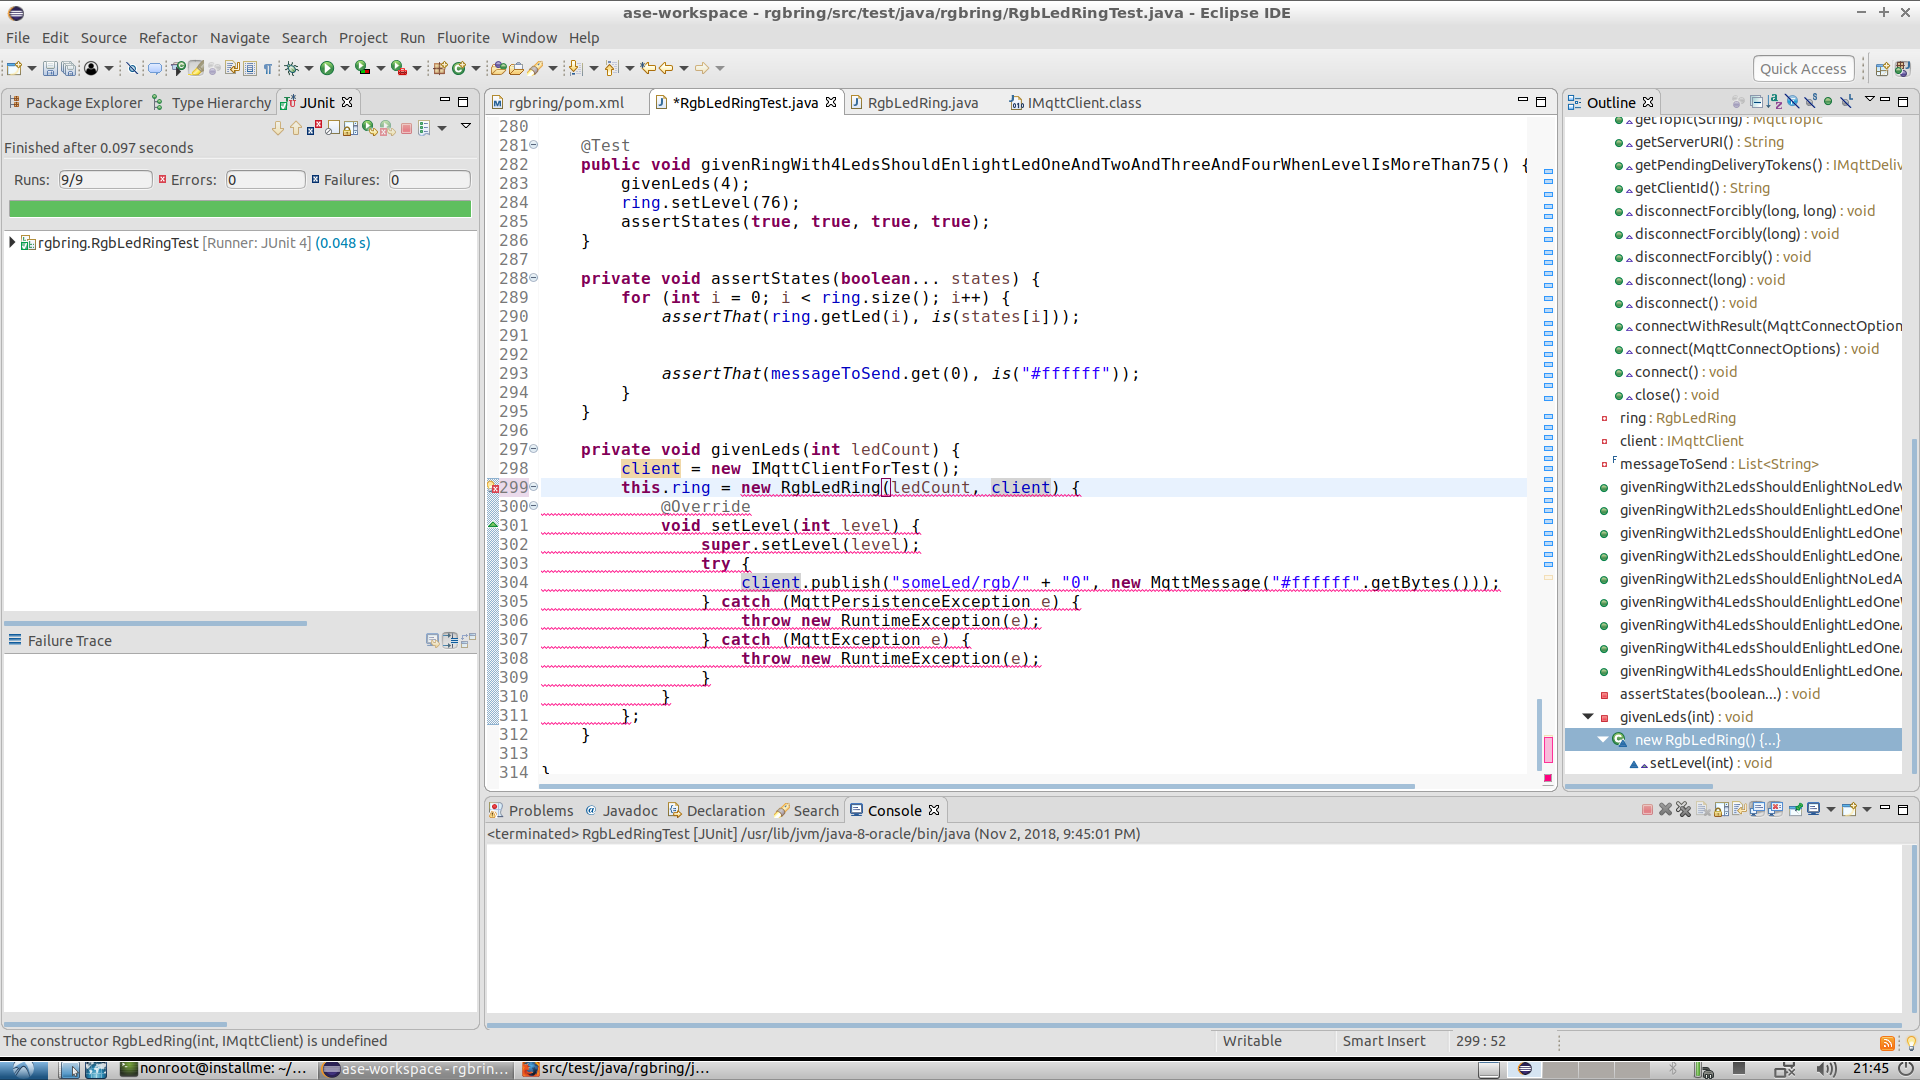
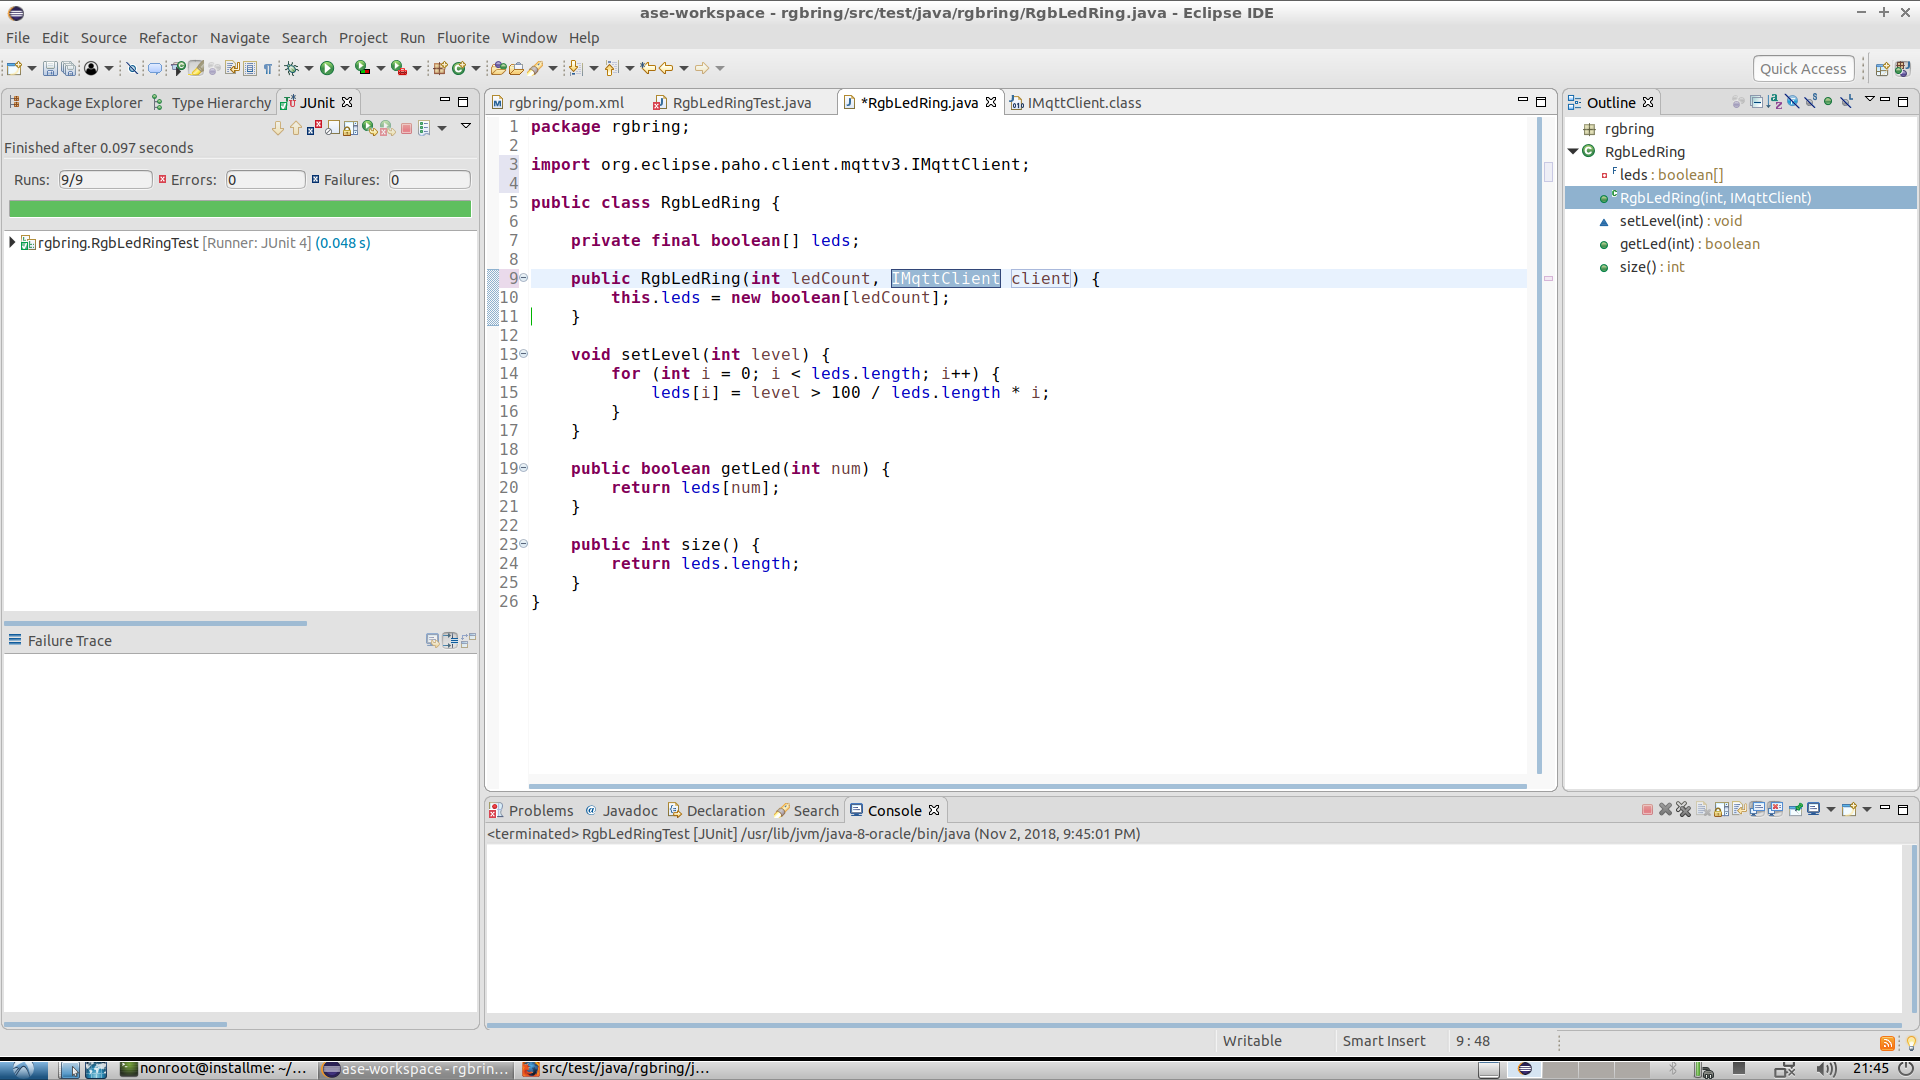
autocommit on change

diff --git a/src/test/java/rgbring/RgbLedRing.java b/src/test/java/rgbring/RgbLedRing.java
@@ -1,10 +1,12 @@
 package rgbring;
 
+import org.eclipse.paho.client.mqttv3.IMqttClient;
+
 public class RgbLedRing {
 	
 	private final boolean[] leds;
 
-	public RgbLedRing(int ledCount) {
+	public RgbLedRing(int ledCount, IMqttClient client) {
 		this.leds = new boolean[ledCount];
 	}
 
